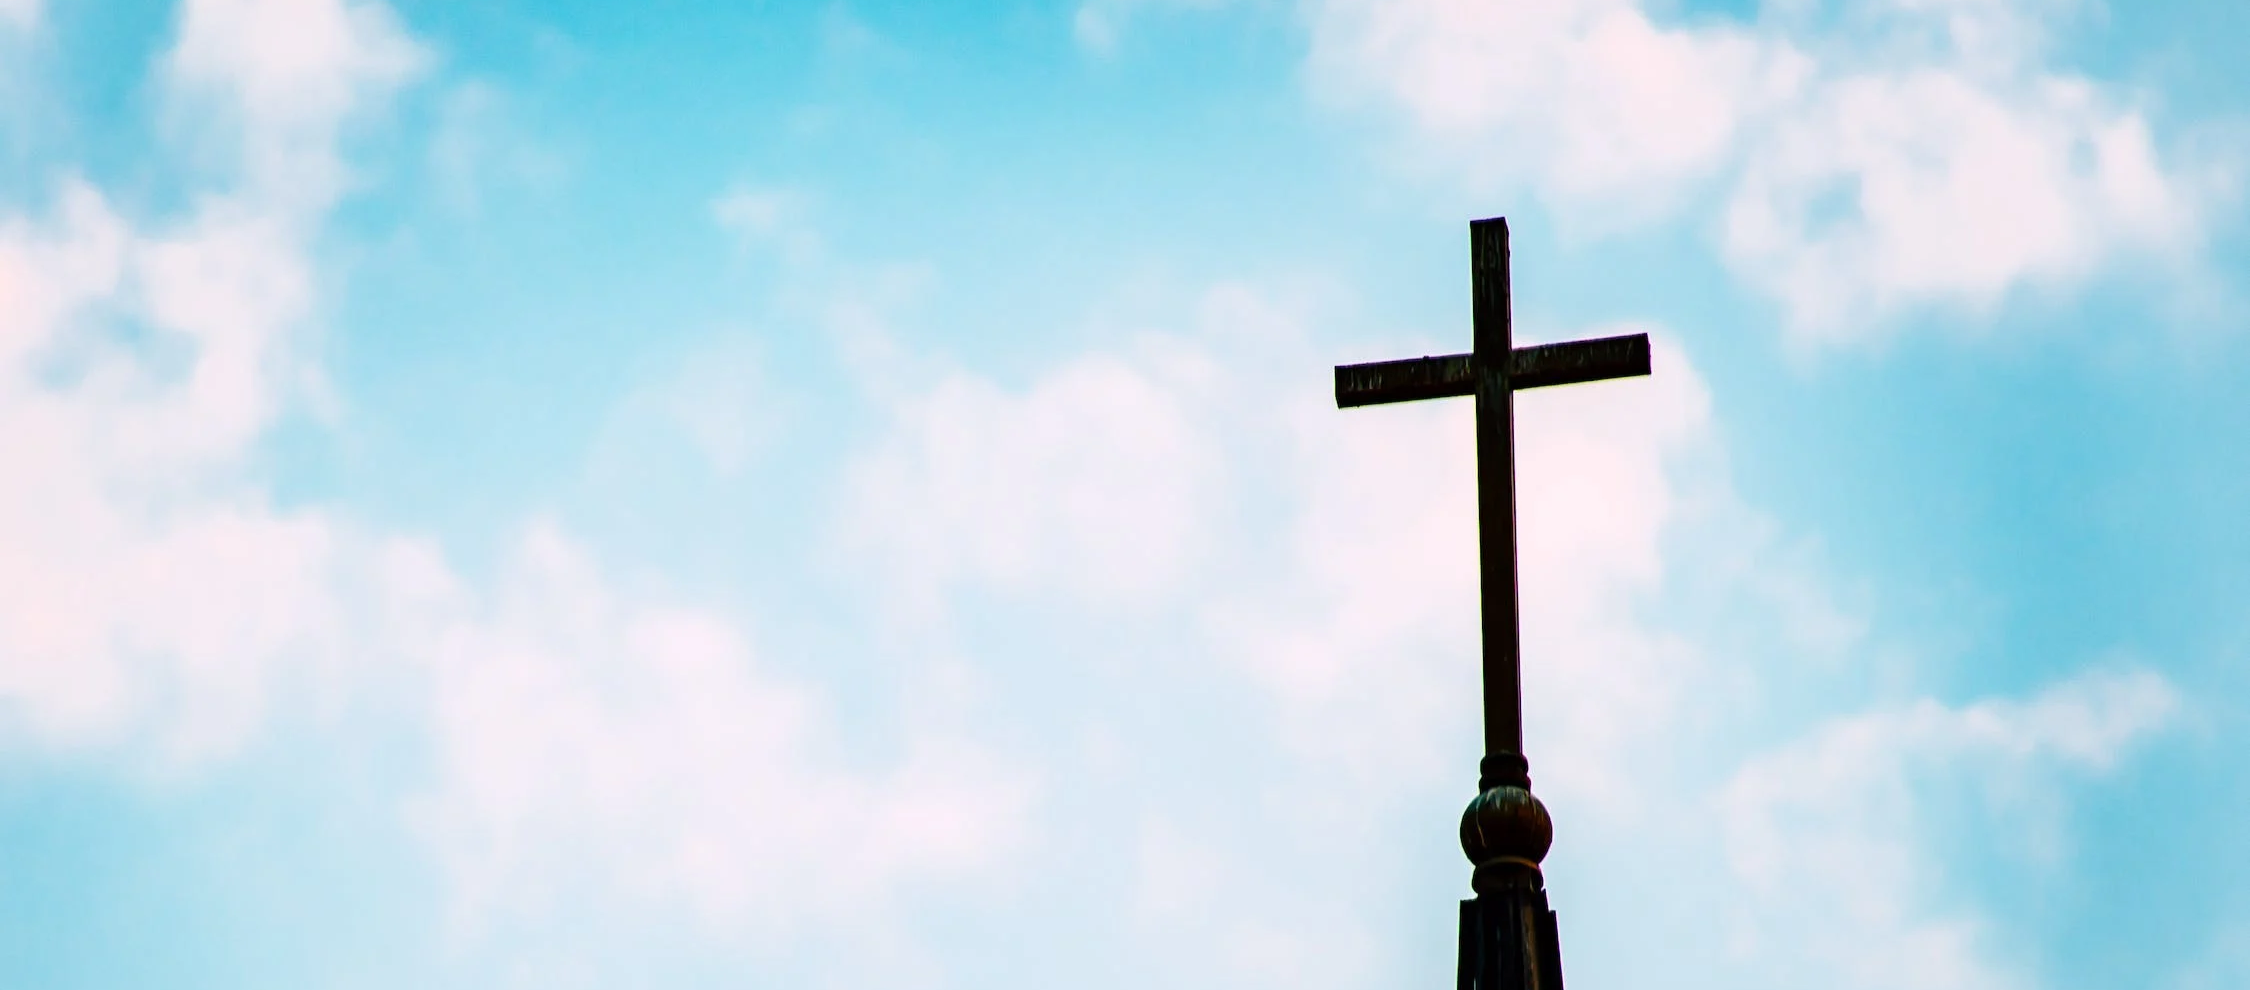
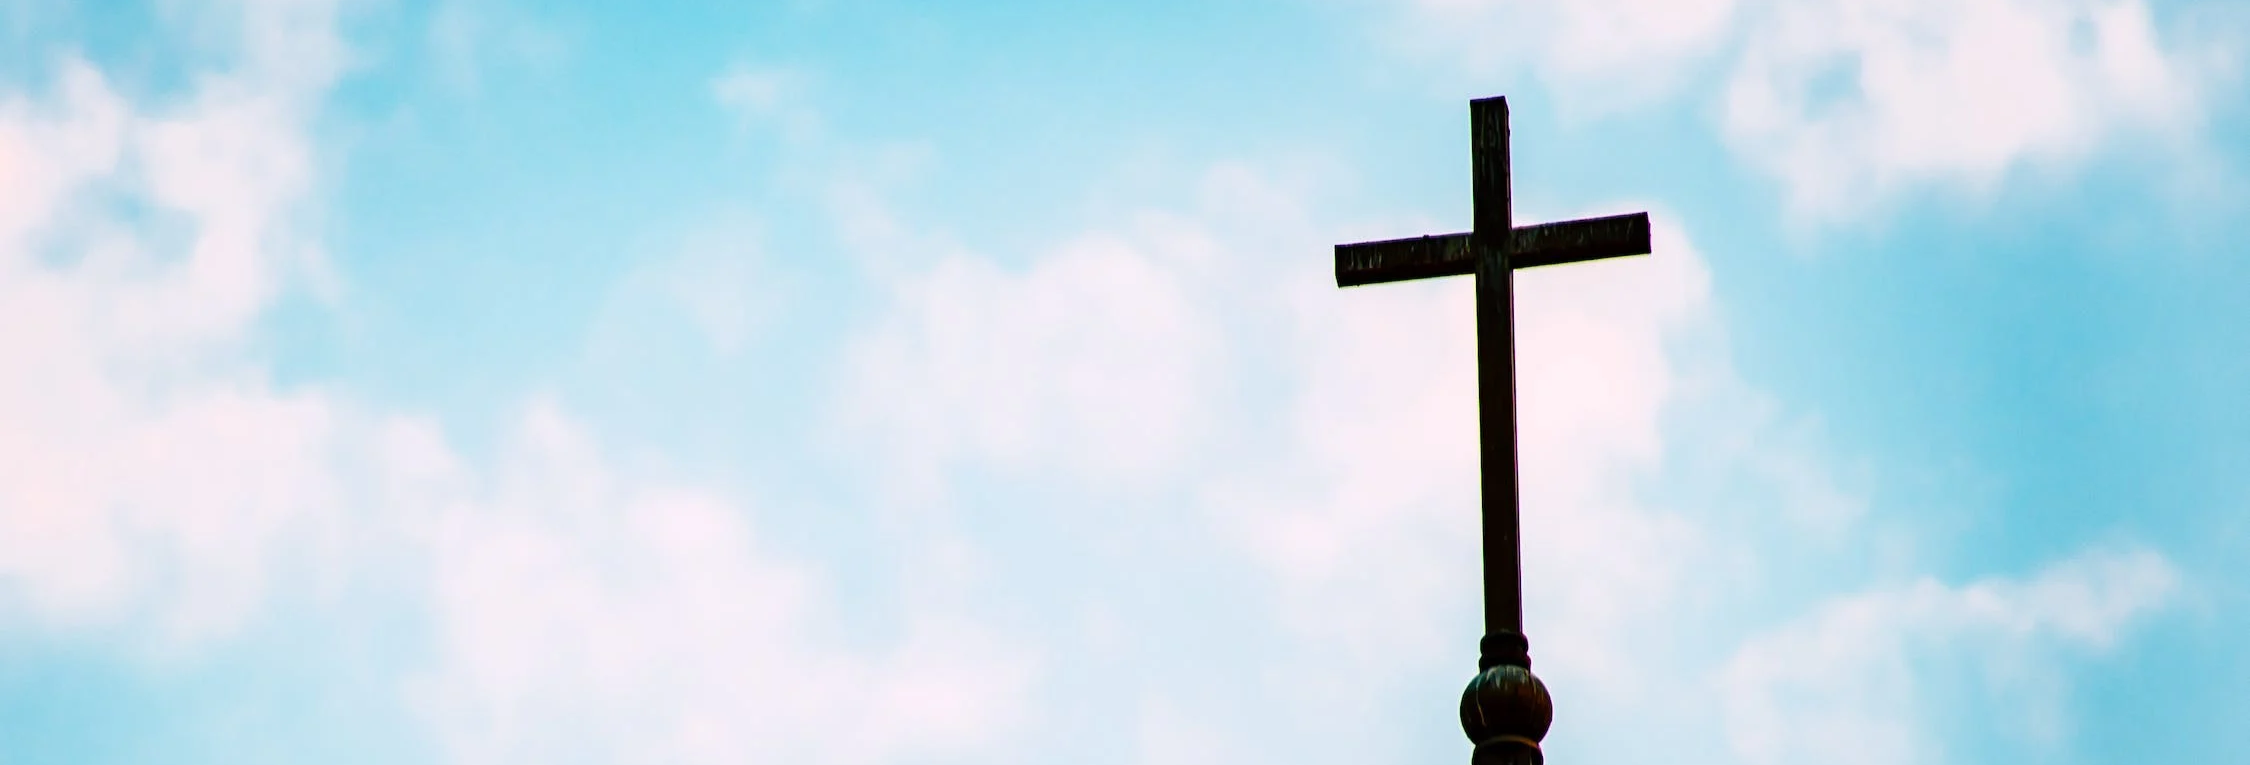
article 추가 중

diff --git a/Maepo_Methodist_Church_Homepage/Maepo_main_page.html b/Maepo_Methodist_Church_Homepage/Maepo_main_page.html
@@ -23,12 +23,21 @@
                                 <p>소개</p>
                             </div>
                             <div class="sub_menu_title">
-                                <a href="#">교회소개</a>
-                                <a href="">위임목사 소개</a>
-                                <a href="">교역자소개</a>
-                                <a href="">장로소개</a>
-                                <a href="">찬양단 소개</a>
-                                <a href="">각부 조직 및 업무</a>
+                                <div class="sub_menu_title_box">
+                                    <a href="#">교회소개</a>
+                                    <div class="sub_menu_sub">
+                                        <a href=""><i class="fa-solid fa-caret-right"></i>2023년 우리 매포교회</a>
+                                        <a href=""><i class="fa-solid fa-caret-right"></i>연혁</a>
+                                        <a href=""><i class="fa-solid fa-caret-right"></i>목표</a>
+                                    </div>
+                                    <a href="">위임목사소개</a>
+                                    <a href="">교역자소개</a>
+                                </div>
+                                <div class="sub_menu_title_box">
+                                    <a href="">장로소개</a>
+                                    <a href="">찬양단소개</a>
+                                    <a href="">각부 조직 및 업무</a>
+                                </div>
                             </div>
                         </div>
                     </div>
@@ -41,10 +50,14 @@
                                 <p>설교</p>
                             </div>
                             <div class="sub_menu_title">
-                                <a href="">주보</a>
-                                <a href="">주일 설교</a>
-                                <a href="">말씀 묵상</a>
-                                <a href="">예배별 설교</a>
+                                <div class="sub_menu_title_box">
+                                    <a href="">주보</a>
+                                    <a href="">주일 설교</a>
+                                </div>
+                                <div class="sub_menu_title_box">
+                                    <a href="">말씀 묵상</a>
+                                    <a href="">예배별 설교</a>
+                                </div>
                             </div>
                         </div>
                     </div>
@@ -57,12 +70,16 @@
                                 <p>찬양</p>
                             </div>
                             <div class="sub_menu_title">
-                                <a href="">찬양단 소개</a>
-                                <a href="">악기팀 소개</a>
-                                <a href="">주일 찬송</a>
-                                <a href="">오늘의 찬양</a>
-                                <a href="">특별 찬양</a>
-                                <a href="">찬송가</a>
+                                <div class="sub_menu_title_box">
+                                    <a href="">찬양단 소개</a>
+                                    <a href="">악기팀 소개</a>
+                                    <a href="">주일 찬송</a>
+                                </div>
+                                <div class="sub_menu_title_box">
+                                    <a href="">오늘의 찬양</a>
+                                    <a href="">특별 찬양</a>
+                                    <a href="">찬송가</a>
+                                </div>
                             </div>
                         </div>
                     </div>
@@ -75,9 +92,11 @@
                                 <p>선교</p>
                             </div>
                             <div class="sub_menu_title">
-                                <a href="">선교회 임원</a>
-                                <a href="">전도</a>
-                                <a href="">봉사</a>
+                                <div class="sub_menu_title_box">
+                                    <a href="">선교회 임원</a>
+                                    <a href="">전도</a>
+                                    <a href="">봉사</a>
+                                </div>
                             </div>
                         </div>
                     </div>
@@ -90,11 +109,15 @@
                                 <p>소식</p>
                             </div>
                             <div class="sub_menu_title">
-                                <a href="">행정</a>
-                                <a href="">교회소식</a>
-                                <a href="">교우소식</a>
-                                <a href="">사진</a>
-                                <a href="">문의</a>
+                                <div class="sub_menu_title_box">
+                                    <a href="">행정</a>
+                                    <a href="">교회소식</a>
+                                    <a href="">교우소식</a>
+                                </div>
+                                <div class="sub_menu_title_box">
+                                    <a href="">사진</a>
+                                    <a href="">문의</a>
+                                </div>
                             </div>
                         </div>
                     </div>
@@ -105,7 +128,35 @@
     <main>
         <article>
             <div class="main_banner">
-                <img src="/Image/십자가5.png" alt="사진 없음">
+                <img src="/Image/십자가4.jpg" alt="사진 없음">
+            </div>
+        </article>
+        <article class="main_section">
+            <section>
+                <a href=""><img src="/Image/목사.png" alt="이미지 없음"><p>교역자소개</p></a>
+                <a href=""><img src="/Image/예배.png" alt="이미지 없음"><p>예배</p></a>
+                <a href=""><img src="/Image/주보.png" alt="이미지 없음"><p>주보</p></a>
+                <a href=""><img src="/Image/성경.png" alt="이미지 없음"><p>성경읽기</p></a>
+                <a href=""><img src="/Image/기도.png" alt="이미지 없음"><p>새벽기도회</p></a>
+                <a href=""><img src="/Image/새로운가족.png" alt="이미지 없음"><p>새가족</p></a>
+                <a href=""><img src="/Image/성가대.png" alt="이미지 없음"><p>찬양대</p></a>
+                <a href=""><img src="/Image/교회위치.png" alt="이미지 없음"><p>오시는길</p></a>
+            </section>
+        </article>
+        <article class="main_contents">
+            <div class="today_word">
+                <p>오늘의 말씀</p>
+                <div>
+                    <p>왕이신 나의 하나님이여 내가 주를 높이고 영원히 주의 이름을 송축하리이다  _시편 145: 1</p>
+                </div>
+            </div>
+            <div class="announcement">
+                <p>매포교회소식</p>
+                <div>
+                    <!-- 번호 js로 구현예정 -->
+                    <p><span>1. </span>7월 셋째 주 - 여름성경학교</p>
+                    <p><span>2. </span>7월 넷째 주 - 중고등부 수련회</p>
+                </div>
             </div>
         </article>
     </main>

diff --git a/Maepo_Methodist_Church_Homepage/Maepo_main_page.css b/Maepo_Methodist_Church_Homepage/Maepo_main_page.css
@@ -2,16 +2,18 @@
     font-family: 'ONE-Mobile-Title';
     font-family: 'NanumSquareNeo-Variable';
     font-family: 'LINESeedKR-Bd';
+    font-family: 'SUITE-Regular';
     src: url('https://cdn.jsdelivr.net/gh/projectnoonnu/noonfonts_11-01@1.0/LINESeedKR-Bd.woff2') format('woff2');
     src: url('https://cdn.jsdelivr.net/gh/projectnoonnu/noonfonts_2105_2@1.0/ONE-Mobile-Title.woff') format('woff');
     src: url('https://cdn.jsdelivr.net/gh/projectnoonnu/noonfonts_11-01@1.0/NanumSquareNeo-Variable.woff2') format('woff2');
-}
+    src: url('https://cdn.jsdelivr.net/gh/projectnoonnu/noonfonts_2304-2@1.0/SUITE-Regular.woff2') format('woff2');
+    }
 
 *{
     margin: 0;
     padding: 0;
     box-sizing: border-box;
-    font-family: 'LINESeedKR-Bd';
+    font-family: 'SUITE-Regular';
 }
 
 body {
@@ -28,24 +30,21 @@ a{
 }
 
 header{
+    width: 100%;
     display: flex;
     flex-direction: row;
     flex-wrap: nowrap;
     align-items: center;
     position: relative;
-    height: 130px;
+    height: 110px;
 }
 
 header > div{
     margin-left: 70px;
 }
 
-.header_logo{
-    width: 300px;
-}
-
 header img{
-    width: 300px;
+    width: 280px;
     filter: drop-shadow(2px 2px 2px #353434);
 }
 
@@ -60,17 +59,22 @@ header nav{
     align-items: center;
     text-align:center;
     height: 130px;
+    width: 100%;
 }
 
 .header_container > div{
-    width: 100px;
+    height: 100%;
+    margin: 0 20px;
 }
 
 .header_container > div > a{    /*헤더 메뉴*/
-    margin: 0 30px;
+    width: 100%;
     height: 100%;
-    font-size: inherit;
+    margin: 0 10px;
+    font-size: 36px;
     font-weight: bold;
+    display: flex;
+    align-items: center;
 }
 
 .sub_menu_container{
@@ -85,14 +89,6 @@ header nav{
     display: block;
 }
 
-.nav_sermon:hover .sub_menu_container{
-    display: block;
-}
-
-.nav_introduction > a{
-    padding: 20px 0;
-}
-
 .sub_menu{
     display: flex;
     justify-content: space-between;
@@ -100,7 +96,9 @@ header nav{
     position: absolute;
     left: 0;
     top: 100%;
-    width: 100vw;
+    max-width: 100vw;
+    min-width: 100%;
+    padding: 50px 0;
     border-top: 5px solid rgb(37, 37, 83);
     border-bottom: 5px solid rgb(37, 37, 83);
     background-color: white;
@@ -116,14 +114,44 @@ header nav{
 .sub_menu_title{
     width: 100%;
     display: flex;
-    flex-direction: column;
+    flex-direction: row;
     text-align: left;
+    font-size: 24px;
 }
 
-.sub_menu_title a{
-    margin: 30px;
-    min-height: 30px;
+.sub_menu_title_box{
+    display: flex;
+    flex-direction: column;
+    justify-content:flex-start;
+    margin: 0 40px;
+}
+
+.sub_menu_title_box > a{
+    margin: 25px;
     font-weight: bold;
+}
+
+.sub_menu_sub{
+    display: flex;
+    flex-direction: column;
+    font-size: 20px;
+    margin: -25px 0 20px 20px;
+}
+
+.sub_menu_sub a{
+    margin: 10px 0;
+}
+
+.sub_menu_sub i{
+    margin: 0 10px;
+}
+
+.sub_menu_title_box a:hover{
+    text-decoration: underline;
+}
+
+article{
+    width: 100%;
 }
 
 footer{
@@ -163,7 +191,51 @@ footer{
 
 /*-----------------------------------< main_pg >-----------------------------------*/
 
+.main_banner{
+}
+
 .main_banner img{
     width: 100%;
     background-size: cover;
+}
+
+
+section{
+    padding: 20px 10px;
+    display: flex;
+    flex-direction: row;
+    align-items: center;
+    justify-content: space-evenly;
+}
+
+.main_section{
+    width: 100%;
+    background: url("/Image/심플한_배경.png");
+}
+
+.main_section a{
+    text-align: center;
+    display: flex;
+    flex-direction: column;
+    margin: 25px 0 0 0;
+}
+
+.main_section a:hover{
+    filter: opacity(0.5) drop-shadow(0 0 0 rgb(209, 209, 209));
+}
+
+.main_section img{
+    width: 80px;
+    margin: 0 auto;
+}
+
+.main_section p{
+    margin: 15px 0;
+    font-weight: bold;
+    font-size: 22px;
+}
+
+
+.main_contents{
+    
 }
